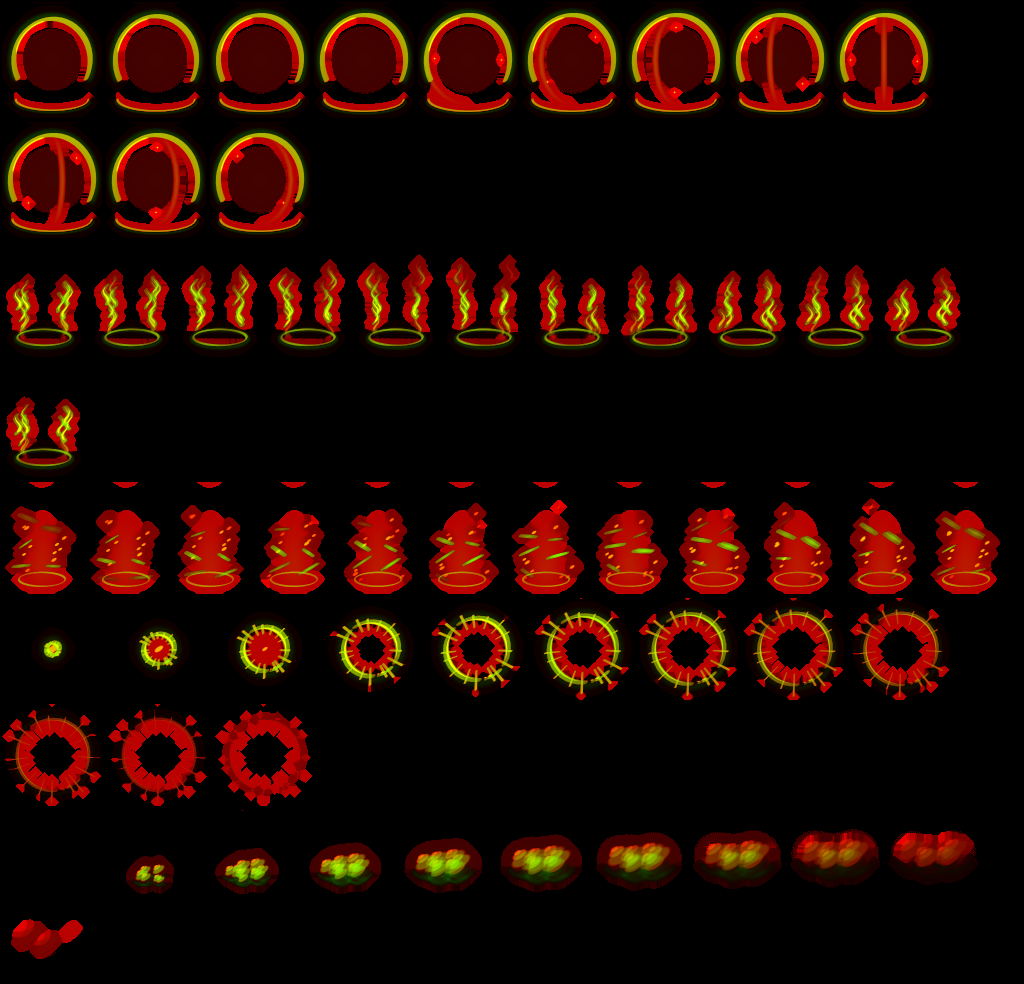
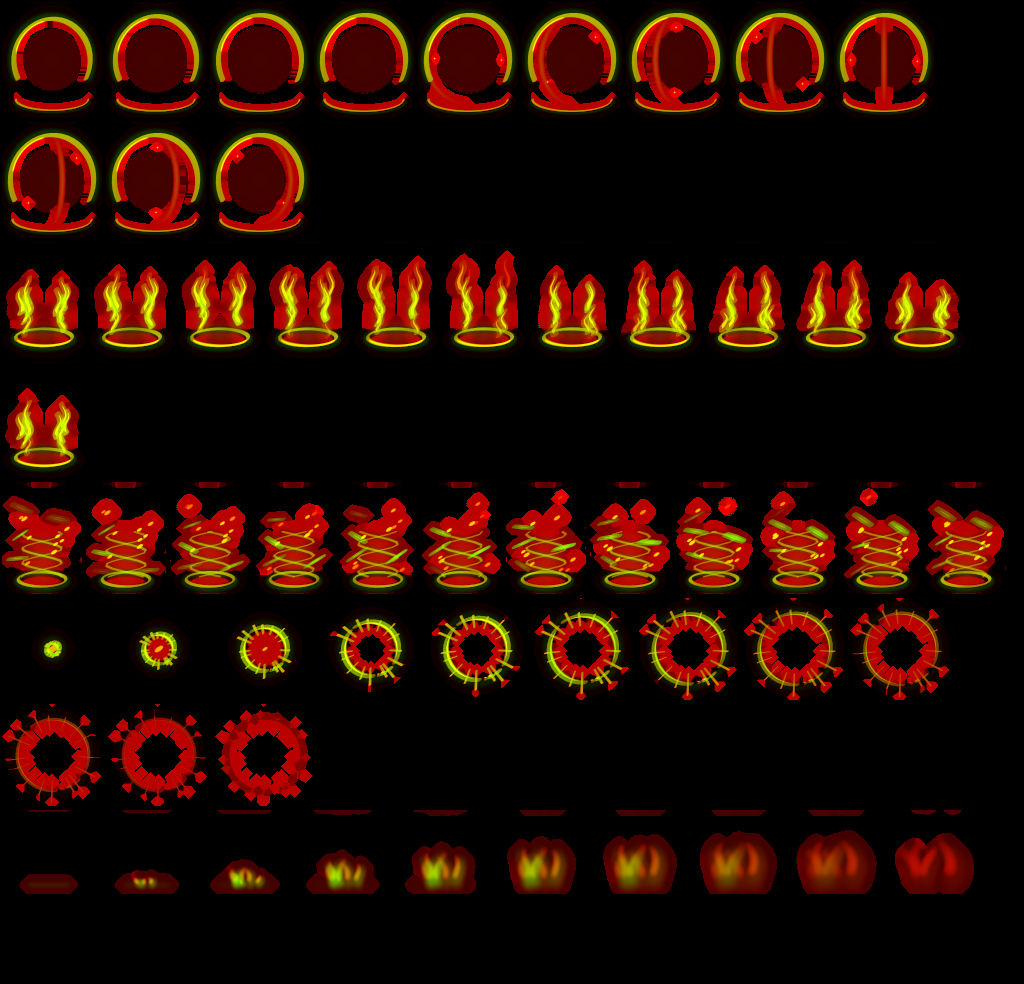
vfxp round 3 (owner 25 Nov): smoke as soft ash wisps (ashMix 0.75 tint), stronger aura and heal; effect ramps ru #94622c, za #b2bccb cool white, apex #2ea8e8 (school pairs dE >= 10 in play)
Claude-Session: https://claude.ai/code/session_015w2gCFTByA9kWQ9LtEYXgQ

Changed region(s): [[0.0, 0.3963, 1.0, 0.6098], [0.0, 0.2439, 0.9375, 0.3659], [0.0, 0.8232, 0.9688, 0.9756]]

diff --git a/probe/vfxp/cards.js b/probe/vfxp/cards.js
@@ -11,7 +11,7 @@ export function makeCards(THREE, meta, tex, ramp, opts = {}) {
   const VS = `#define NFX ${NFX}
 attribute vec4 iA; attribute vec4 iB; attribute vec4 iC;
 uniform float uTime; uniform vec4 uFxA[NFX]; uniform vec4 uFxB[NFX]; uniform vec4 uFxC[NFX]; uniform vec4 uFxD[NFX];
-varying vec2 vUv; varying float vRow; varying float vAlpha;
+varying vec2 vUv; varying float vRow; varying float vAlpha; varying float vAsh;
 #include <fog_pars_vertex>
 void main() {
   int k = int(iC.x + 0.5); vec4 A = uFxA[k]; vec4 B = uFxB[k]; vec4 C = uFxC[k]; vec4 D = uFxD[k];
@@ -27,15 +27,17 @@ void main() {
   if (dead) gl_Position = vec4(2.0, 2.0, 2.0, 1.0);
   vec2 cell = vec2(mod(f, B.z), floor(f / B.z));
   vUv = A.xy + cell * B.xy + vec2(position.x, 1.0 - position.y) * A.zw;
-  vRow = iC.y; vAlpha = iC.z;
+  vRow = iC.y; vAlpha = iC.z; vAsh = D.z;
   #include <fog_vertex>
 }`;
-  const FS = (cut) => `uniform sampler2D map; uniform sampler2D ramp; uniform float uRampW;
-varying vec2 vUv; varying float vRow; varying float vAlpha;
+  const FS = (cut) => `uniform sampler2D map; uniform sampler2D ramp; uniform float uRampW; uniform float uAshV;
+varying vec2 vUv; varying float vRow; varying float vAlpha; varying float vAsh;
 #include <fog_pars_fragment>
 void main() {
   vec2 va = texture2D(map, vUv).rg; float a = va.y * vAlpha;
-  vec3 col = texture2D(ramp, vec2(va.x * (uRampW - 1.0) / uRampW + 0.5 / uRampW, vRow)).rgb;
+  float rx = va.x * (uRampW - 1.0) / uRampW + 0.5 / uRampW;
+  // smoke: the ash row mixed over the caster's row (vAsh = the card's ashMix), so the school colour is only a tint
+  vec3 col = mix(texture2D(ramp, vec2(rx, vRow)).rgb, texture2D(ramp, vec2(rx, uAshV)).rgb, vAsh);
 #ifdef USE_FOG
   col = mix(col, fogColor, smoothstep(fogNear, fogFar, vFogDepth));
 #endif
@@ -56,7 +58,7 @@ ${cut ? `#ifdef ALPHA_TO_COVERAGE
     U.A.push(new THREE.Vector4(e.originPx[0] / W, e.originPx[1] / H, e.cellPx[0] / W, e.cellPx[1] / H));
     U.B.push(new THREE.Vector4(e.stridePx[0] / W, e.stridePx[1] / H, e.cols, e.frames));
     U.C.push(new THREE.Vector4(e.pivotPx[0] / e.cellPx[0], e.pivotPx[1] / e.cellPx[1], e.fps, e.loop ? e.loop[0] : 0));
-    U.D.push(new THREE.Vector4(e.loop ? e.loop[1] : 0, e.orient === 'ground' ? 1 : 0, 0, 0));
+    U.D.push(new THREE.Vector4(e.loop ? e.loop[1] : 0, e.orient === 'ground' ? 1 : 0, e.ashMix || 0, 0));
   }
   const pools = {}, uTime = { value: 0 };
   for (const an of Object.keys(meta.atlases)) {
@@ -69,7 +71,7 @@ ${cut ? `#ifdef ALPHA_TO_COVERAGE
     // culling: one sphere round the room (frustum culling stays on; the game moves it on a room change)
     g.boundingSphere = new THREE.Sphere(new THREE.Vector3(), opts.sphereR || 40);
     const mat = new THREE.ShaderMaterial({ vertexShader: VS, fragmentShader: FS(cut), fog: true, side: THREE.DoubleSide,
-      uniforms: THREE.UniformsUtils.merge([THREE.UniformsLib.fog, { map: { value: null }, ramp: { value: null }, uRampW: { value: meta.ramps.width },
+      uniforms: THREE.UniformsUtils.merge([THREE.UniformsLib.fog, { map: { value: null }, ramp: { value: null }, uRampW: { value: meta.ramps.width }, uAshV: { value: (rows.indexOf('ash') + 0.5) / nRows },
         uFxA: { value: U.A }, uFxB: { value: U.B }, uFxC: { value: U.C }, uFxD: { value: U.D } }]) });
     mat.uniforms.map.value = tex[an]; mat.uniforms.ramp.value = ramp; mat.uniforms.uTime = uTime;
     if (cut) { mat.alphaToCoverage = true; mat.transparent = false; mat.depthWrite = true; mat.polygonOffset = true; mat.polygonOffsetFactor = -2; mat.polygonOffsetUnits = -2; }
